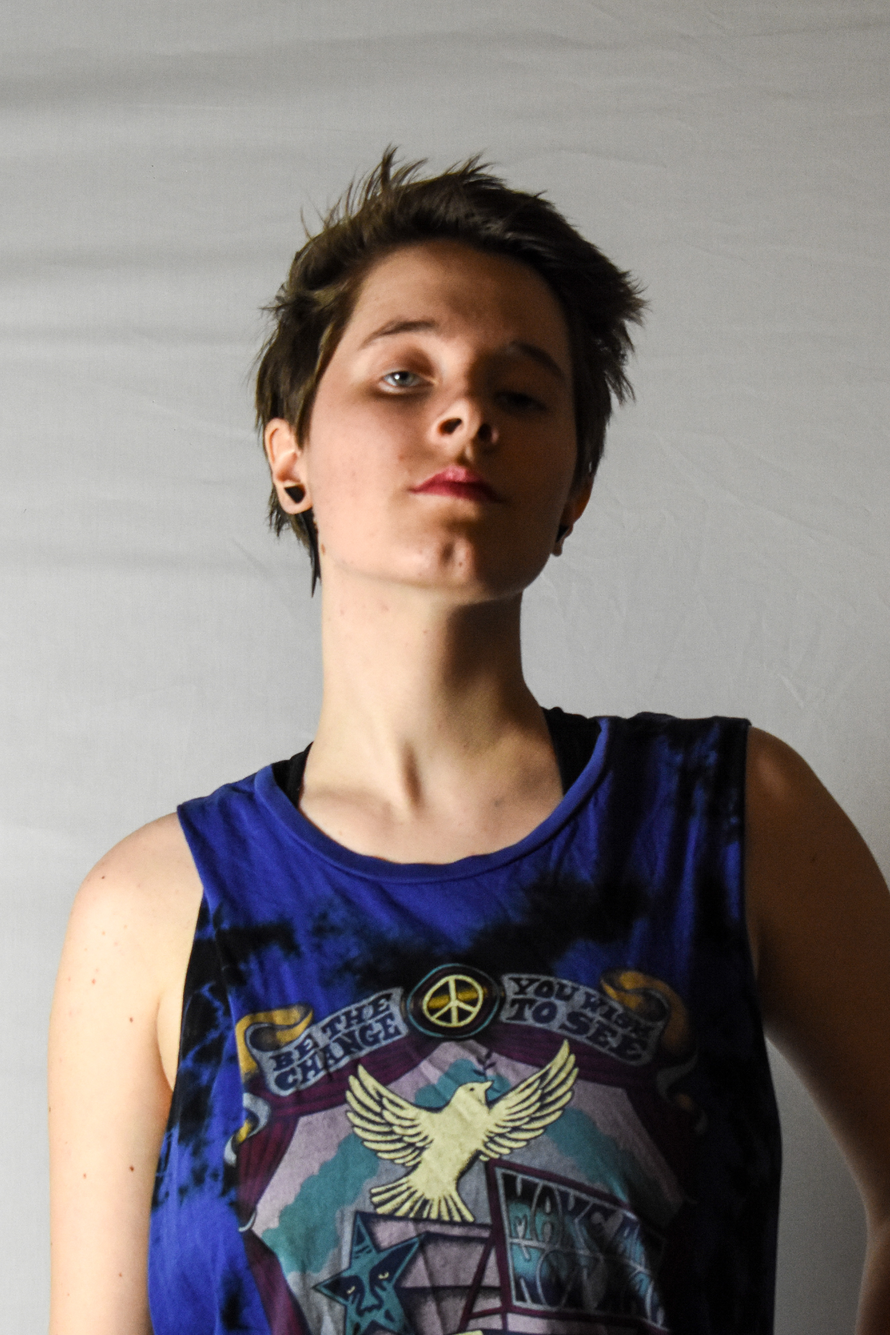
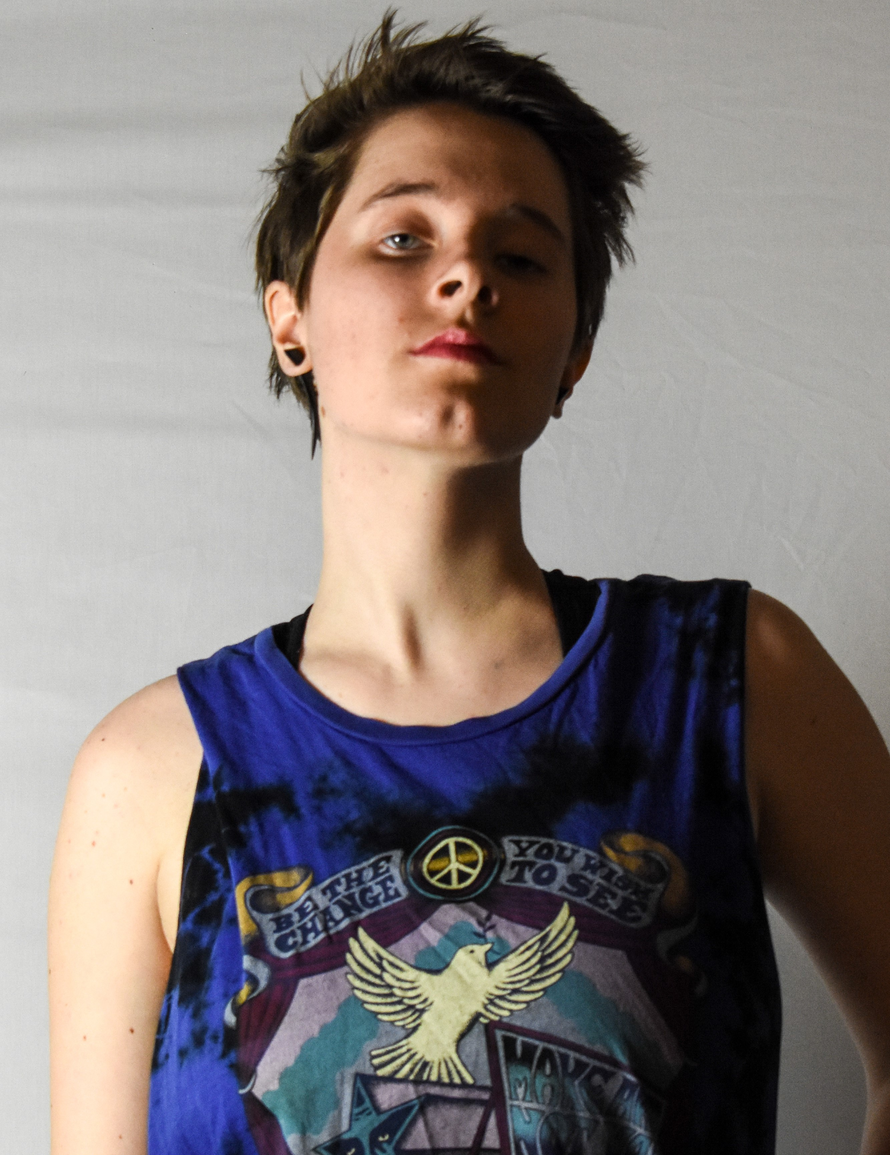
Updated head shot image sizes. Updated font-sizes (changing vw to em).

diff --git a/src/components/MeetTheTeam.jsx b/src/components/MeetTheTeam.jsx
@@ -136,7 +136,8 @@ const MeetOurStarsTitle = styled.h1`
     display: flex;
     // width: 100vw;
     font-weight: 400;
-    font-size: 15vw;
+    // font-size: 15vw;
+    font-size: 7.5em;
     /* z-index: 8; */
     position: relative;
     font-weight: 400;
@@ -145,6 +146,10 @@ const MeetOurStarsTitle = styled.h1`
     // -moz-background-clip: text;
     // background-image: linear-gradient(#d3b456 33%, #bc8ae3 66%);
     color: #d3b456;
+        -webkit-background-clip: text;
+    -webkit-text-fill-color: transparent;
+        background-image: linear-gradient(#d3b456 33%,#bc8ae3 66%);
+}
 
   @media (min-width: 768px) {
     font-size: 8em;
@@ -202,6 +207,7 @@ display: flex;
 opacity:0;
 // height: 36%;
 user-select: none;
+font-size: 1.5em;
 align-items: center;
 // width: 100%;
 width: 200px;

diff --git a/src/components/WeAre.jsx b/src/components/WeAre.jsx
@@ -109,7 +109,7 @@ const SweetDreamStudios = styled.h1`
   -webkit-text-fill-color: transparent;
   -moz-background-clip: text;
   -moz-text-fill-color: transparent;
-  font-size: 15vw;
+  font-size: 9em;
   // background-image: linear-gradient(#ffec8c 33%,#384d89 66%);
   background-image: linear-gradient(#bc8ae3 33%, #d3b456 66%);
   width: min-content;

diff --git a/src/App.css b/src/App.css
@@ -2,6 +2,7 @@
 body {
   height: 200vh;
   width: 100vw;
+  font-size: 12px;
   overflow-x: hidden;
   /* font-family: 'Didact Gothic', sans-serif; */
   /* font-weight: 500; */
